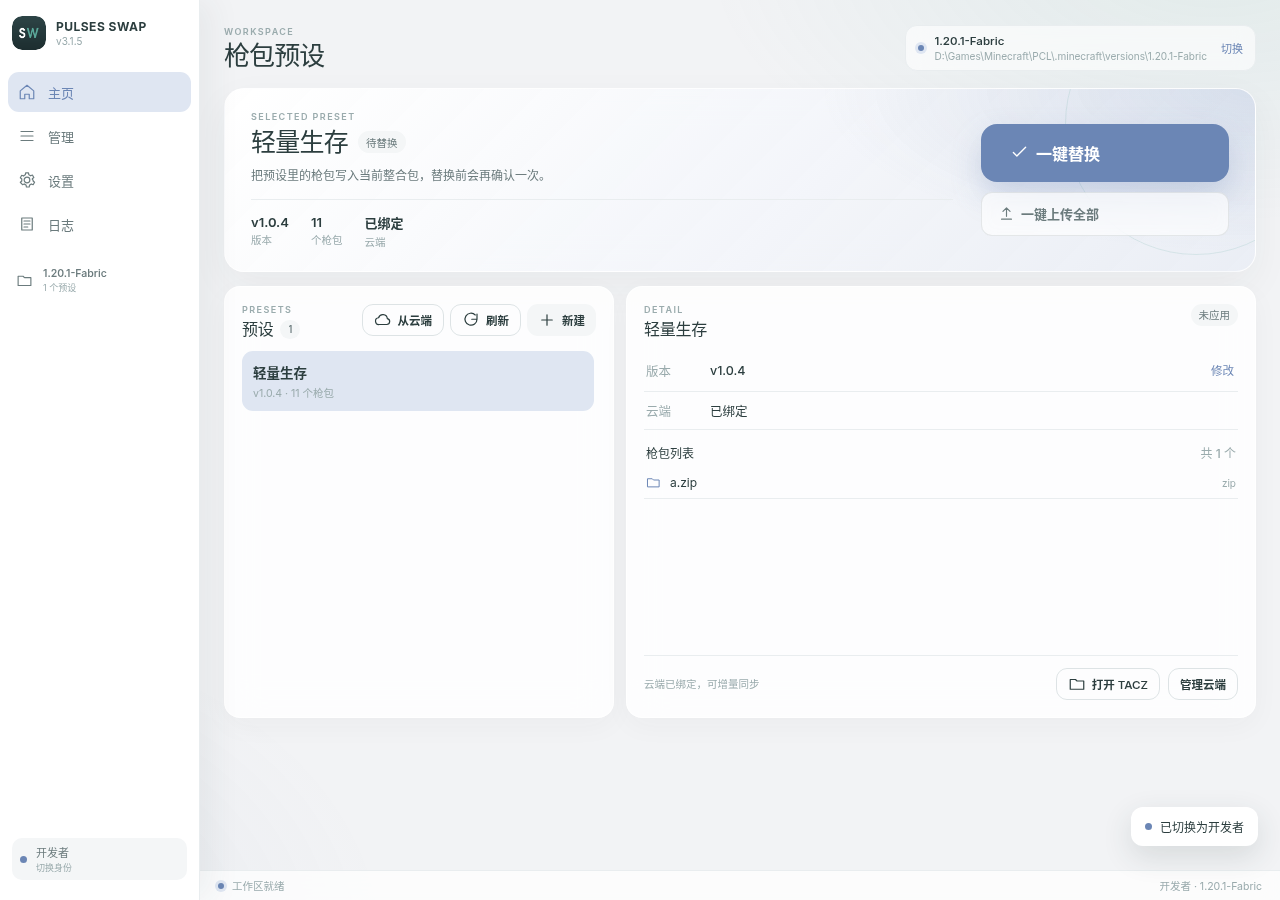
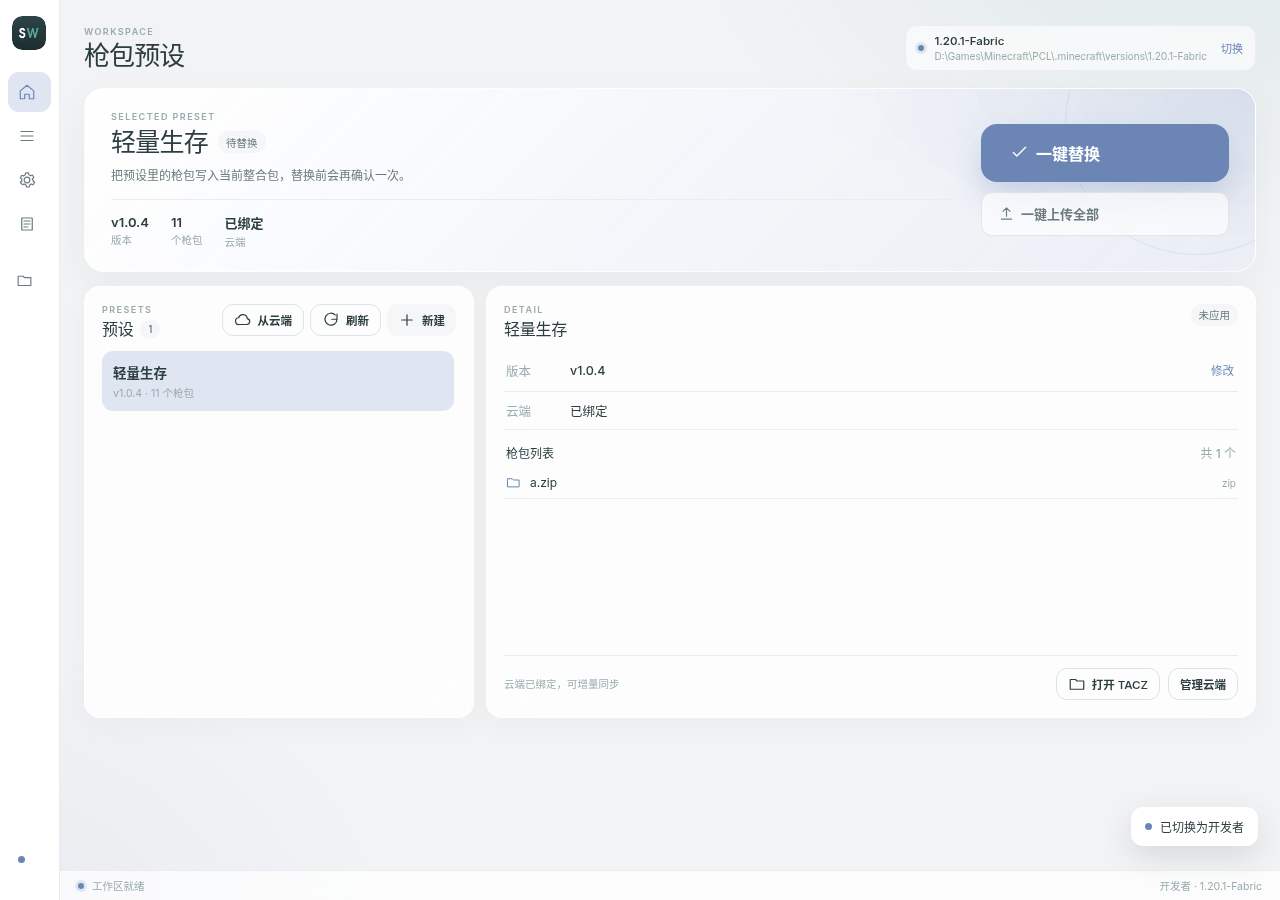
feat(3.1.6): 页面无幕布，身份切换使用渐变覆盖层

diff --git a/src/pulses_web/web/src/App.jsx b/src/pulses_web/web/src/App.jsx
@@ -623,7 +623,6 @@ export default function App() {
   const [dnd, setDnd] = useState(false)
   const [bridgeError, setBridgeError] = useState('')
   const jobIdRef = useRef('')
-  const coverTimers = useRef([])
   const roleSwitchRef = useRef(false)
   const toastTimer = useRef(null)
 
@@ -846,14 +845,10 @@ export default function App() {
   }, [showToast])
 
   const navigate = useCallback((next) => {
-    if (next === page || cover.active) return
-    if (snap.settings?.animations === false) { setPage(next); return }
-    setCover({ active: true, phase: 'cover', note: `正在打开${NAV.find((n) => n.key === next)?.label || ''}` })
-    clearTimeout(coverTimers.current[0]); clearTimeout(coverTimers.current[1]); clearTimeout(coverTimers.current[2])
-    coverTimers.current[0] = setTimeout(() => { setPage(next); setCover((s) => ({ ...s, phase: 'hold' })) }, 250)
-    coverTimers.current[1] = setTimeout(() => setCover((s) => ({ ...s, phase: 'reveal' })), 770)
-    coverTimers.current[2] = setTimeout(() => setCover({ active: false, phase: 'idle' }), 1150)
-  }, [page, cover.active, snap.settings?.animations])
+    if (next === page) return
+    // 页面切换只用内容区过渡，不再盖整页幕布
+    setPage(next)
+  }, [page])
 
   useEffect(() => {
     const onKey = (e) => {
@@ -873,16 +868,30 @@ export default function App() {
   const switchRole = useCallback(async (role) => {
     if (role === snap.role || roleSwitchRef.current) return
     roleSwitchRef.current = true
+    const label = role === 'developer' ? '开发者' : '玩家'
+    const animate = snap.settings?.animations !== false
+    if (animate) setCover({ active: true, phase: 'role-cover', note: `正在切换为${label}` })
     try {
       const state = await invoke('app.role.switch', { role })
-      setSnap(state)
+      if (!animate) { setSnap(state); }
+      else {
+        // 至少让渐变铺开，再在覆盖层下换主题
+        await new Promise((r) => setTimeout(r, 260))
+        setSnap(state)
+        setCover((s) => ({ ...s, phase: 'role-hold', note: `已切换为${label}` }))
+        await new Promise((r) => setTimeout(r, 300))
+        setCover((s) => ({ ...s, phase: 'role-reveal' }))
+        await new Promise((r) => setTimeout(r, 430))
+        setCover({ active: false, phase: 'idle' })
+      }
       showToast(role === 'developer' ? '已切换为开发者' : '已切换为玩家', 'success')
     } catch (err) {
+      setCover({ active: false, phase: 'idle' })
       showToast(err.message, 'error')
     } finally {
       roleSwitchRef.current = false
     }
-  }, [snap.role, showToast])
+  }, [snap.role, snap.settings?.animations, showToast])
 
   const actions = { openPack, openTacz, clearCache, clearLogs, addFromCloud, openDatabase, select, createPreset, rename, delete: remove, saveVersion, apply, bind, check, sync, syncAuto, publishAuto, syncAllAuto, publishAllAuto, publishPlan, publish, login, logout, updateSettings, switchRole, prompt, toast: showToast, navigate, cancelJob }
   const animations = snap.settings?.animations !== false

diff --git a/src/pulses_web/web/src/styles.css b/src/pulses_web/web/src/styles.css
@@ -650,3 +650,54 @@ h3 { font-size: 15px; font-weight: 600; }
   .hero-actions .btn { width: 100%; flex: none; }
   .drop-caption { text-align: center; }
 }
+
+/* 身份切换专用覆盖层：页面切换不再使用幕布 */
+.cover-role-cover, .cover-role-hold, .cover-role-reveal {
+  background: linear-gradient(112deg, #E4F1EE 0%, #F4F6F8 48%, #E8EDF6 100%);
+  background-size: 220% 220%;
+  animation: role-cover-in 300ms var(--ease-out) both;
+}
+.cover-role-cover .cover-panel, .cover-role-hold .cover-panel, .cover-role-reveal .cover-panel {
+  background: transparent;
+  transform: none;
+  animation: none;
+}
+.cover-role-cover .cover-aura, .cover-role-hold .cover-aura {
+  opacity: 1;
+  background:
+    radial-gradient(58% 72% at 18% 34%, rgba(91, 168, 154, .30), transparent 70%),
+    radial-gradient(60% 76% at 82% 66%, rgba(107, 134, 181, .27), transparent 72%);
+  background-size: 200% 200%;
+  animation: role-wash 980ms ease-in-out both;
+}
+.cover-role-cover .cover-brand, .cover-role-hold .cover-brand, .cover-role-reveal .cover-brand {
+  opacity: 1;
+  animation: role-brand-in 420ms var(--ease-spring) both;
+}
+.cover-role-hold .cover-brand { animation: none; opacity: 1; }
+.cover-role-reveal {
+  animation: role-cover-out 430ms var(--ease-out) both;
+}
+.cover-role-reveal .cover-brand { animation: role-brand-out 240ms var(--ease-out) both; }
+.cover-role-reveal .cover-aura { opacity: .45; transition: opacity 300ms ease; }
+@keyframes role-cover-in {
+  from { opacity: 0; transform: scale(1.025); }
+  to { opacity: 1; transform: scale(1); }
+}
+@keyframes role-cover-out {
+  from { opacity: 1; transform: scale(1); }
+  to { opacity: 0; transform: scale(1.018); }
+}
+@keyframes role-wash {
+  0% { background-position: 0% 40%; opacity: 0; transform: scale(1.03); }
+  45% { opacity: 1; }
+  100% { background-position: 100% 60%; opacity: .82; transform: scale(1); }
+}
+@keyframes role-brand-in {
+  from { opacity: 0; transform: translateY(8px); }
+  to { opacity: 1; transform: translateY(0); }
+}
+@keyframes role-brand-out {
+  from { opacity: 1; transform: translateY(0); }
+  to { opacity: 0; transform: translateY(-4px); }
+}

diff --git a/packaging/web_selftest.js b/packaging/web_selftest.js
@@ -31,6 +31,7 @@
       document.querySelectorAll('.nav-item')[i]?.click();
       await sleep(1300);
       check(`nav.${h1}`, document.querySelector('h1')?.innerText === h1);
+      check(`nav.${h1}.no-cover`, !document.querySelector('.cover'));
     }
 
     // 侧栏悬停（管理页）

diff --git a/src/pulses/core/paths.py b/src/pulses/core/paths.py
@@ -45,7 +45,7 @@ except ImportError:
 
 
 # ==================== 常量定义 ====================
-VERSION = "3.1.5"
+VERSION = "3.1.6"
 AUTHOR = "NimShade"
 PROJECT_NAME = "Pulses Swap"
 

diff --git a/README.md b/README.md
@@ -1,6 +1,6 @@
 # Pulses Swap 3.0
 
-TACZ 枪包一键切换工具 · **PyWebView + React** 版 · v3.1.5
+TACZ 枪包一键切换工具 · **PyWebView + React** 版 · v3.1.6
 
 Pulses Swap 把 Minecraft 的 TACZ 枪包按「预设」分组：拖入整合包、选择预设、
 一键替换，也可以把预设发布到蓝奏云，让玩家增量同步。
